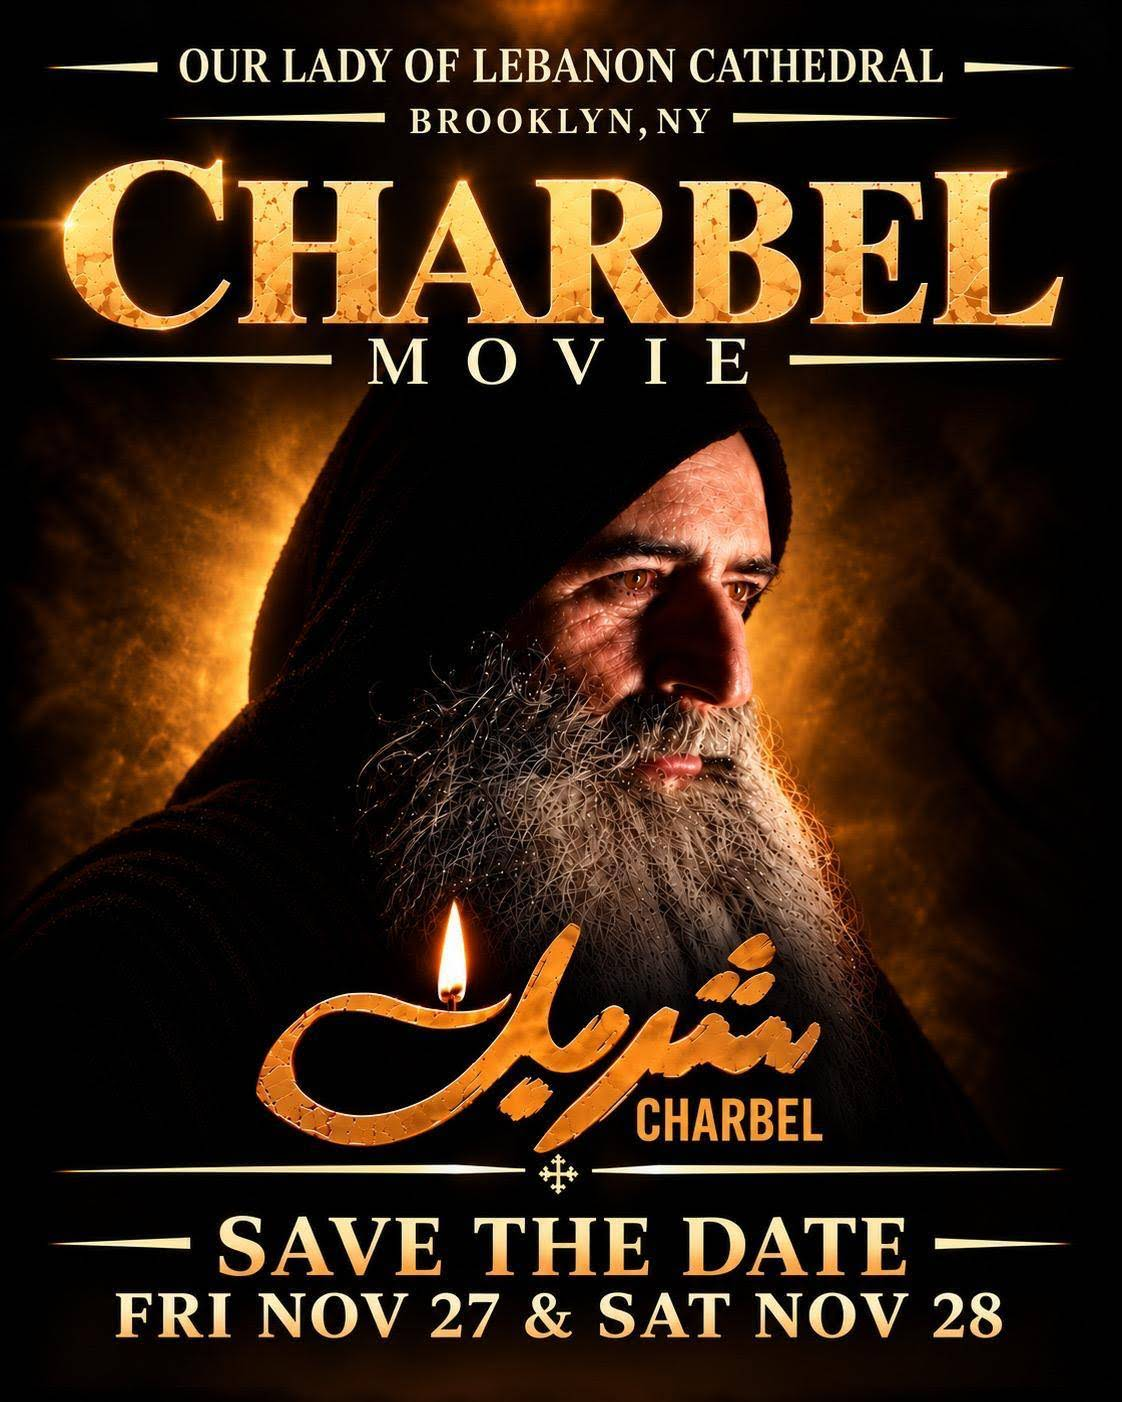
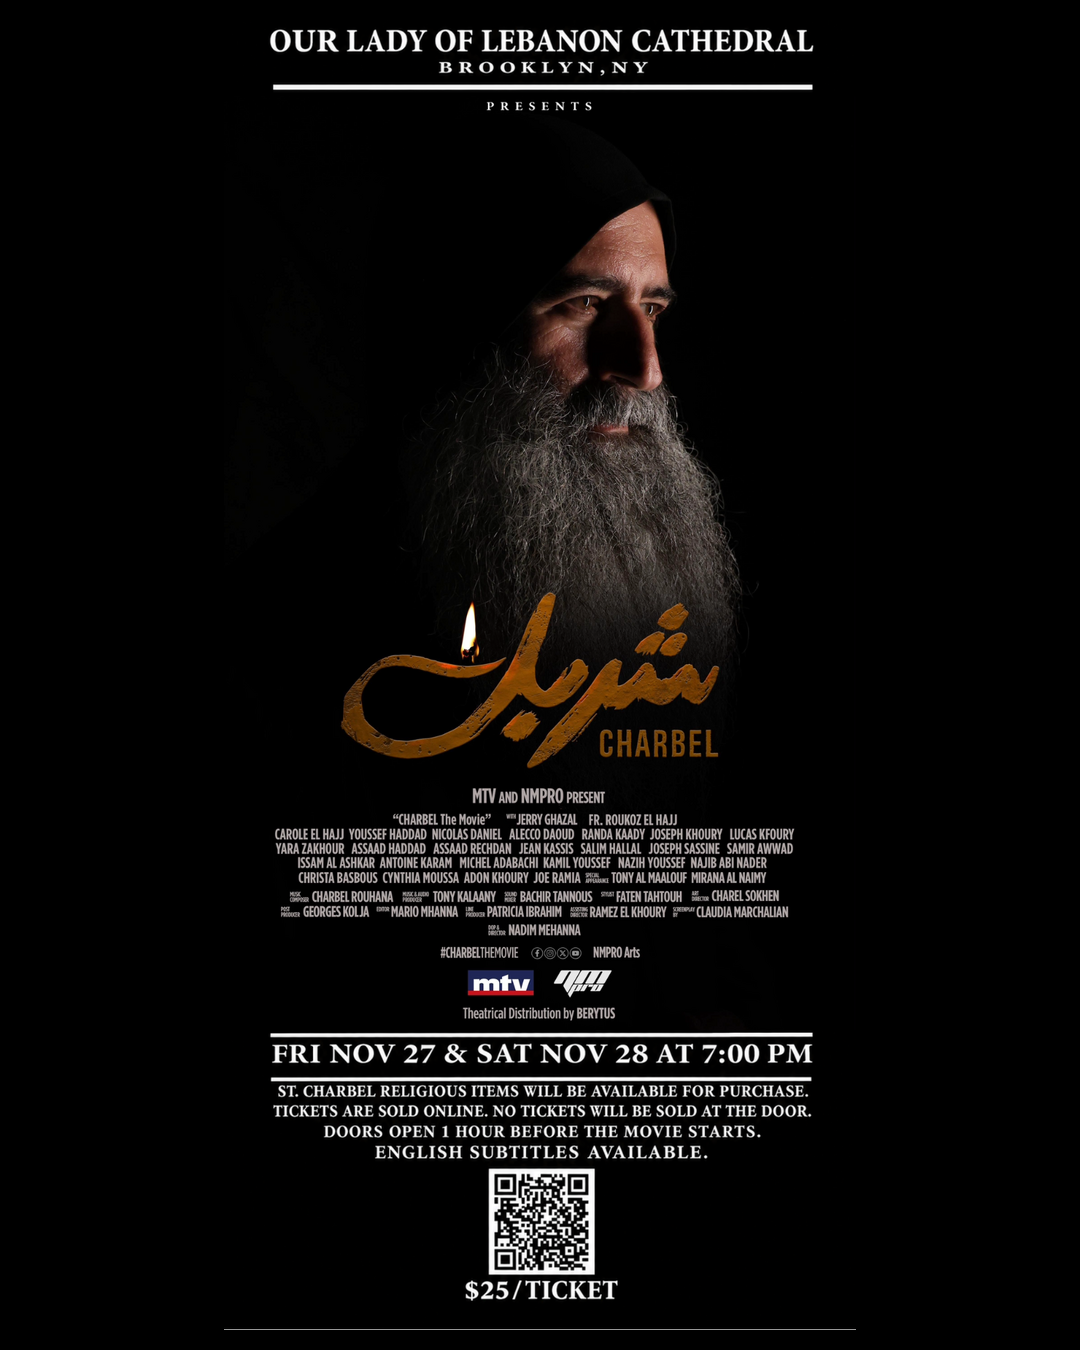
Charbel update

diff --git a/content/events/2026-charbel-movie/index.md b/content/events/2026-charbel-movie/index.md
@@ -1,5 +1,5 @@
 ---
-title: "Charbel movie, Save the Date"
+title: "Charbel movie"
 date: 2026-11-27
 publishDate: 2026-11-08
 expiryDate: 2026-12-04
@@ -9,11 +9,13 @@ showSummary: true
 heroStyle: basic
 ---
 
-### Save the Date
+The new movie, _Charbel_ will be shown, with English subtitles, at the Cathedral for two nights.
+Friday, November 27, 2026 and Saturday, November 28, 2026 at 7 {{< pm >}}.
 
-The new movie, _Charbel_ will be shown at the Cathedral for two nights.
-Friday, November 27, 2026 and Saturday, November 28, 2026.
+Saint Charbel religious items will be available for purchase.
+Tickets are sold online.  *No ticket will be sold at the door.*
+Doors open one hour before the movie starts.
 
-More info to come.
+{{< donate >}} {{< zeffy zeffy-form-link="https://www.zeffy.com/en-US/ticketing/saint-charbel-movie" message="## Purchase tickets online:" >}} {{< /donate >}}
 
 {{< image path=flyer.png width=600 alt="Charbel movie flyer" >}}
